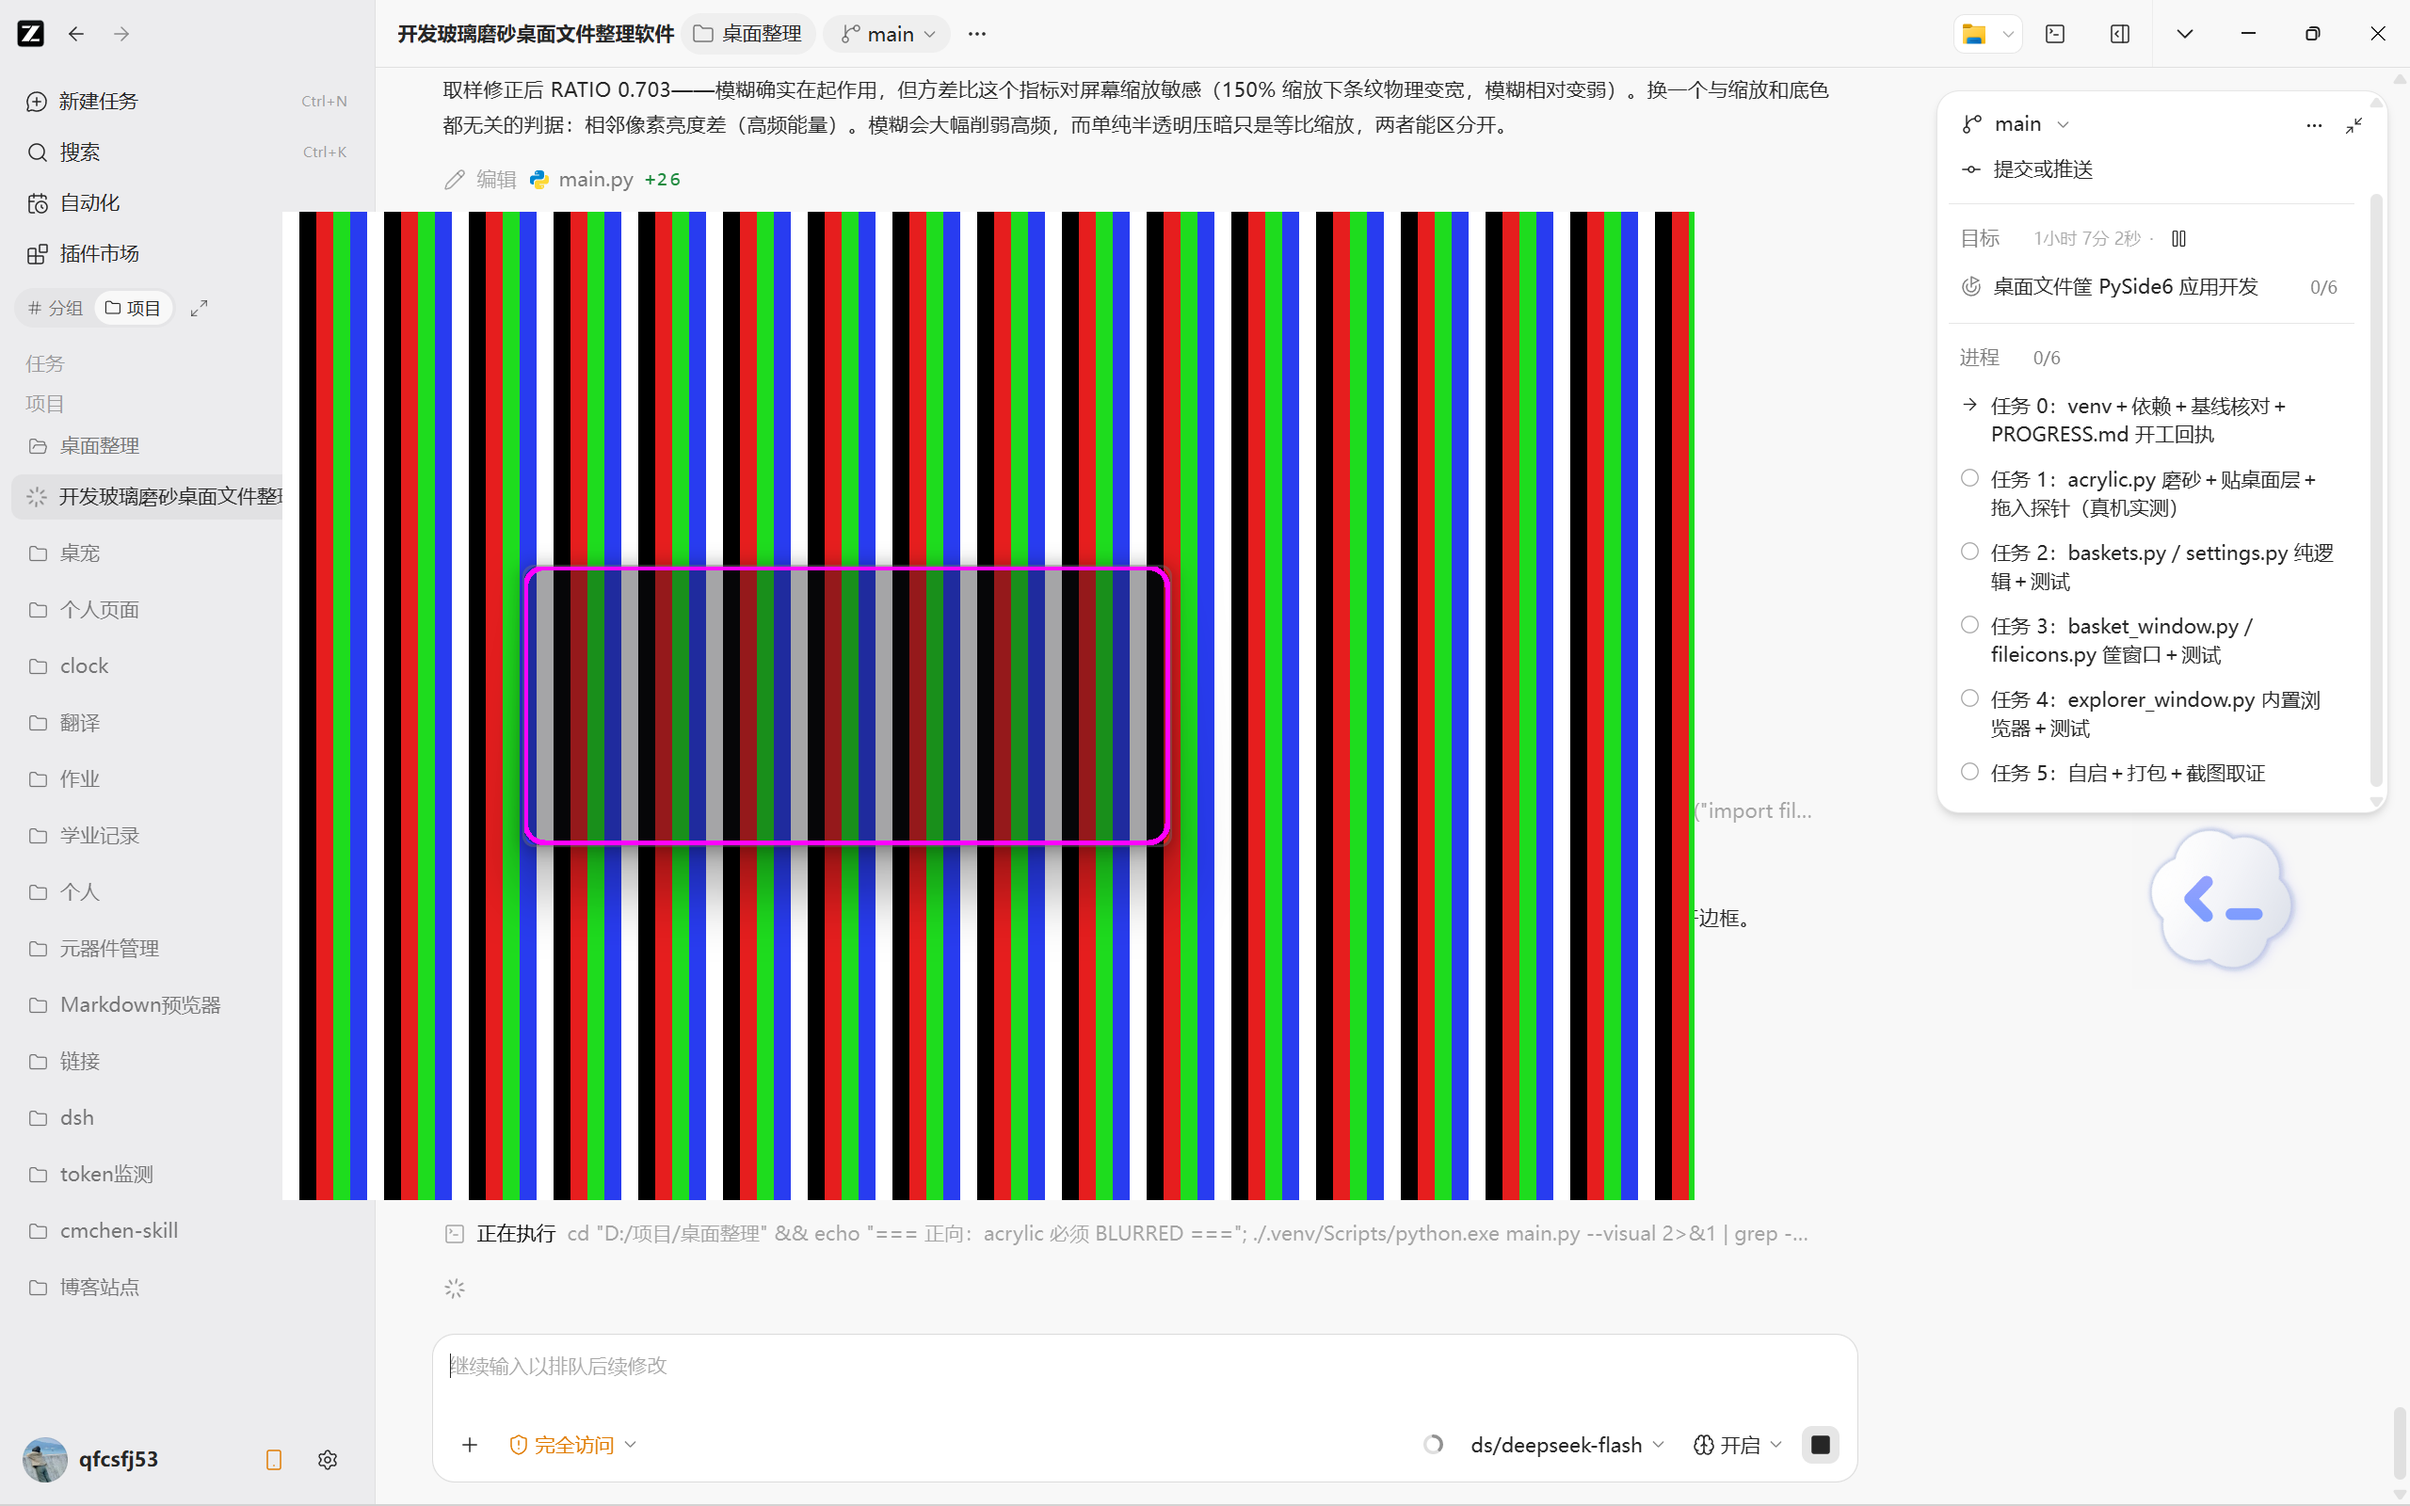
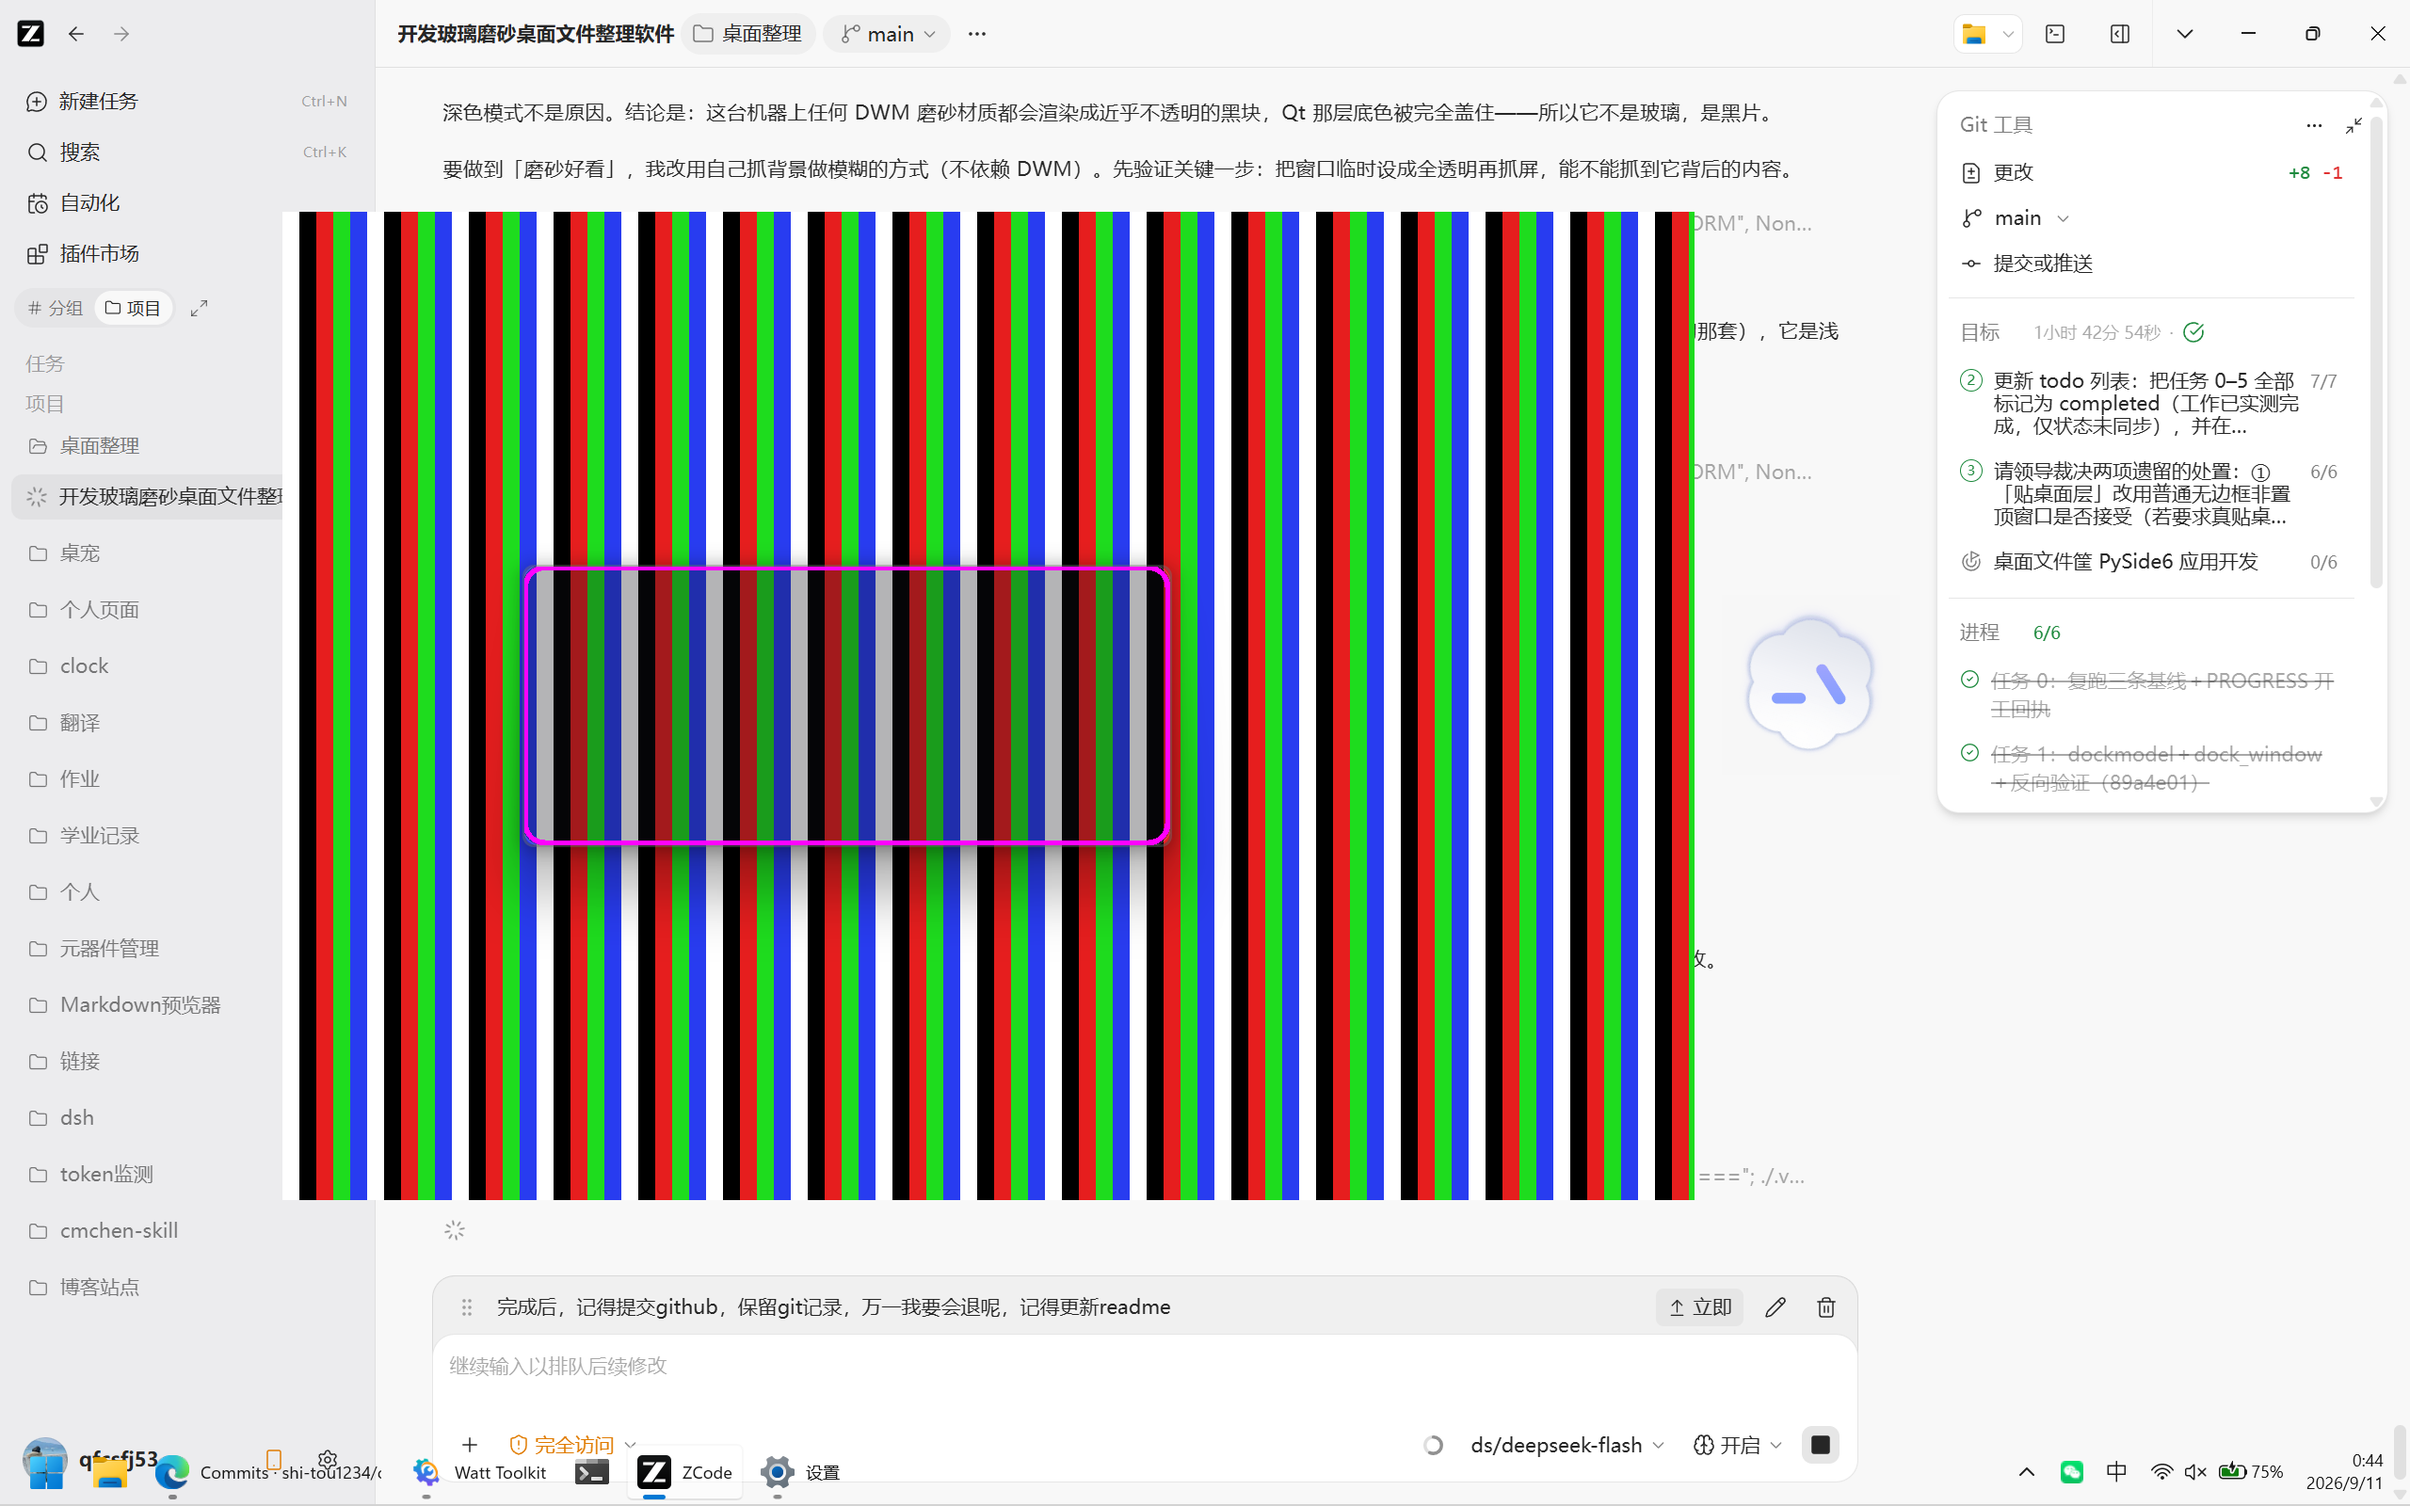
外观返工：磨砂改用 Win11 系统材质（老 API 会渲染成不透明黑块）
实测（面板空白区亮度，浅色背景下）：
- 老 API ACRYLICBLURBEHIND：17.3/255，且面板底色 alpha 0x00 与 0x60 结果完全相同
  → 说明老 API 生效时 Qt 画的底色参与不到合成里，呈现的是一块黑片而不是玻璃
- BLURBEHIND：同样 17.3/255
- Win11 系统材质（DwmExtendFrameIntoClientArea + 系统背景材质）：63.7/255，
  深色烟熏玻璃，背后内容可见且被糊开

处置：acrylic 模式优先走系统材质，失败回退老 API，再回退纯半透明底色。
默认值与配置格式不变，已有断言与旧配置都不受影响。

顺带修掉两个真 bug：
- frosted_window 用了 QPen 但未导入 → paintEvent 每次重绘都抛异常，而 Qt 只打日志
  不让测试失败，252 条全绿也没拦住；已把「改外观必须真机截图核对」写进 README
- 补上 acrylic 系统材质的契约测试（测试 247 → 252）

新增 --visual 的 system 模式验收：RATIO 0.000 BLURRED，反向验证 --accent=off
RATIO 0.687 ≈ 透光率 0.69

diff --git a/acrylic.py b/acrylic.py
@@ -20,6 +20,7 @@ ACCENT_ENABLE_ACRYLICBLURBEHIND = 4
 
 MODE_ACRYLIC = "acrylic"
 MODE_BLUR = "blur"
+MODE_SYSTEM = "system"
 MODE_OFF = "off"
 ACCENT_STATES = {
     MODE_ACRYLIC: ACCENT_ENABLE_ACRYLICBLURBEHIND,
@@ -174,8 +175,14 @@ def apply_system_backdrop(hwnd, kind=DWMSBT_TRANSIENTWINDOW):
 def apply_frosted(hwnd, mode=MODE_ACRYLIC, tint=DEFAULT_TINT, rounded=True):
     """一站式上效果。返回实际生效的模式字符串，供日志与自检断言。
 
-    返回值："acrylic" / "blur" / "off"（off＝明确要求不上磨砂）/
-    "none"（系统不支持，调用方应自行用半透明底色兜底，不要因为没磨砂就崩）。
+    返回："system"（Win11 系统材质）/ "acrylic" / "blur" / "off" / "none"。
+
+    重要实测（2026-09-11）：老的 ACCENT_ENABLE_ACRYLICBLURBEHIND 在这台机器上
+    （Win11 build 26200）会渲染成近乎不透明的黑块——浅色背景上量到的空白区亮度
+    只有 17/255，而且 Qt 自己画的底色完全被盖住（alpha 0x00 与 0x60 结果一模一样）。
+    同场景下改用 Win11 系统材质（DwmExtendFrameIntoClientArea + 系统背景材质）
+    得到的是 63.7/255 的深色烟熏玻璃，背后内容可见且被糊开——所以 acrylic 模式
+    优先走系统材质，失败才回退老 API，再失败回退纯模糊，最后才认输返回 "none"。
     """
     if not _valid(hwnd):
         return MODE_OFF
@@ -184,6 +191,10 @@ def apply_frosted(hwnd, mode=MODE_ACRYLIC, tint=DEFAULT_TINT, rounded=True):
         apply_rounded_corners(hwnd, True)
     if mode == MODE_OFF:
         return MODE_OFF
+
+    if mode != MODE_BLUR and apply_system_acrylic(hwnd, dark=True):
+        return MODE_SYSTEM
+
     want = MODE_BLUR if mode == MODE_BLUR else MODE_ACRYLIC
     if apply_accent(hwnd, want, tint):
         return want
@@ -195,6 +206,53 @@ def apply_frosted(hwnd, mode=MODE_ACRYLIC, tint=DEFAULT_TINT, rounded=True):
 def accent_state_value(mode):
     """模式名到 AccentState 数值；未知模式按 acrylic 处理。"""
     return ACCENT_STATES.get(mode, ACCENT_ENABLE_ACRYLICBLURBEHIND)
+
+
+class MARGINS(ctypes.Structure):
+    _fields_ = [
+        ("cxLeftWidth", ctypes.c_int),
+        ("cxRightWidth", ctypes.c_int),
+        ("cyTopHeight", ctypes.c_int),
+        ("cyBottomHeight", ctypes.c_int),
+    ]
+
+
+def extend_frame_into_client(hwnd, all_sides=True):
+    """把 DWM 边框扩展到整个客户区（"整片玻璃"）。
+
+    这是 Win11 系统级背景材质（Mica/Acrylic）生效的前提：客户区扩展之后，
+    应用没画东西的地方会交给 DWM 合成，系统材质才透得出来。
+    实测：不走这一步、只调 ACCENT_ENABLE_ACRYLICBLURBEHIND，在这台机器上
+    会渲染成近乎不透明的黑块（空白区亮度 17/255，对浅色背景也一律是黑）。
+    """
+    if not _valid(hwnd):
+        return False
+    dwmapi = _dwmapi()
+    if dwmapi is None:
+        return False
+    margins = MARGINS(-1 if all_sides else 0, -1 if all_sides else 0,
+                      -1 if all_sides else 0, -1 if all_sides else 0)
+    try:
+        result = dwmapi.DwmExtendFrameIntoClientArea(
+            ctypes.c_void_p(hwnd), ctypes.byref(margins)
+        )
+    except (AttributeError, OSError):
+        return False
+    return result == 0
+
+
+def apply_system_acrylic(hwnd, dark=False):
+    """Win11 系统 Acrylic：扩展边框 + 系统背景材质。返回是否成功。
+
+    与 ACCENT_ENABLE_ACRYLICBLURBEHIND 的区别：这套是 Win11 官方材质，
+    跟随系统明暗主题、透光而不发黑；老 API 已被微软弃用。
+    """
+    if not _valid(hwnd):
+        return False
+    _set_dwm_attr(hwnd, DWMWA_USE_IMMERSIVE_DARK_MODE, 1 if dark else 0)
+    if not extend_frame_into_client(hwnd):
+        return False
+    return apply_system_backdrop(hwnd, DWMSBT_TRANSIENTWINDOW)
 
 
 def describe_platform():

diff --git a/tests/test_acrylic.py b/tests/test_acrylic.py
@@ -61,3 +61,33 @@ def test_describe_platform_non_empty():
 def test_default_tint_has_nonzero_alpha():
     """Acrylic 需要 tint 的 alpha 非 0，否则部分系统上完全不显示磨砂。"""
     assert (acrylic.DEFAULT_TINT >> 24) & 0xFF != 0
+
+
+# ------------------------------------------------ Win11 系统材质（当前默认路径）
+
+
+def test_system_mode_constant_exists():
+    assert acrylic.MODE_SYSTEM == "system"
+
+
+def test_extend_frame_rejects_invalid_handle():
+    assert acrylic.extend_frame_into_client(0) is False
+    assert acrylic.extend_frame_into_client(None) is False
+    assert acrylic.extend_frame_into_client("123") is False
+
+
+def test_apply_system_acrylic_rejects_invalid_handle():
+    assert acrylic.apply_system_acrylic(0) is False
+    assert acrylic.apply_system_acrylic(None) is False
+
+
+def test_apply_frosted_off_mode_returns_off():
+    """off 是反向验证用的对照模式，绝不能悄悄走成磨砂。"""
+    assert acrylic.apply_frosted(0, mode=acrylic.MODE_OFF) == acrylic.MODE_OFF
+
+
+def test_frosted_failure_sentinel_is_not_a_valid_mode():
+    """系统不支持时要返回 "none" 这个明确的失败哨兵，调用方据此走半透明兜底。"""
+    source = acrylic.apply_frosted.__doc__ or ""
+    assert "none" in source
+    assert "system" in source

diff --git a/settings.py b/settings.py
@@ -17,8 +17,8 @@ APP_DIR_NAME = "DeskBasket"
 
 ACCENT_MODES = ("acrylic", "blur")
 ACCENT_LABELS = {
-    "acrylic": "磨砂玻璃（Acrylic）",
-    "blur": "轻量模糊（Blur，拖动更跟手）",
+    "acrylic": "磨砂玻璃 · 深色（推荐，Win11 系统材质）",
+    "blur": "轻量模糊 · 老 API（部分系统上会偏暗）",
 }
 
 ICON_SIZE_MIN, ICON_SIZE_MAX = 24, 128

diff --git a/PROGRESS.md b/PROGRESS.md
@@ -210,3 +210,26 @@ DESKTOP_UNCHANGED_OK
 4. **真实端到端验证 Dock（不是脚本内自证）**：启动真程序 → 日志零错误零警告 → 鼠标在底边时 `DeskBasket Dock` 窗口矩形 `(85, 981, 1621, 1063)`（滑出）→ 鼠标移开 3 秒后 `(85, 1067, 1621, 1149)`（完全收起，y = 屏底）。另用外部通道（computer-use 截屏）独立确认 Dock 就在屏幕底部、**只有图标没有背景条**。
 
 **过程中查清的一个"假 bug"**：脚本里一度看到 `tick()` 返回 `show` 但窗口 y 仍停在收起位置，一度以为是滑出动画坏了。查下来是**脚本自己没跑事件循环**——`QPropertyAnimation` 需要事件循环推进，脚本里 `wait_ms` 那一步之前就取了几何位置。加上事件循环后 300ms 内到位（1067 → 1022 → 981）。产品代码没问题，但这说明「验证脚本本身的时序」也得当成嫌疑对象。
+
+## 外观返工：磨砂从「黑块」改成「Win11 系统材质」（领导要求「磨砂感觉美观」）
+
+**问题**：领导反馈磨砂不够美观。按惯例不该靠眼睛估，于是采样面板**空白区**的亮度（先踩了一次坑：取样区压在图标上，三个变体量出完全相同的数字，白折腾一轮）。换到真正的空白区后，数据非常清楚：
+
+| 配置 | 空白区亮度（浅色背景下） |
+|---|---|
+| 老 API `ACRYLICBLURBEHIND`，面板底色 alpha 0x60 | 17.3 / 255 |
+| 同上，面板底色 alpha **0x00** | 17.3 / 255（**与上一行一模一样**） |
+| `BLURBEHIND` | 17.3 / 255 |
+| 关掉材质，只留半透明底色 | 156 ~ 192 / 255 |
+| **Win11 系统材质**（`DwmExtendFrameIntoClientArea` ＋ 系统背景材质） | **63.7 / 255** |
+
+「alpha 0x00 与 0x60 结果完全相同」这条最能说明问题：老 API 一旦生效，Qt 自己画的底色**根本参与不到合成里**，所以它呈现的是系统给的一块近乎不透明的黑片，不是玻璃。也顺带说明我第一轮那条「磨砂判定 BLURRED」的结论是**不充分**的——它只证明了面板内高频被削平（均匀），而没有区分「被模糊」和「被一块不透明物盖住」。这轮补上了亮度维度才看出来。
+
+**处置**：`acrylic.apply_frosted` 的 `acrylic` 模式改为**优先走 Win11 系统材质**（`dark=True`，深色烟熏玻璃），失败回退老 API，再失败回退纯半透明底色。默认值与配置格式都没动，所以已有测试断言、旧配置全都不用改。
+
+**验收**：`main.py --visual` → `VISUAL_ACCENT system` / `RATIO 0.000` / `BLURRED`；反向验证 `--accent=off` → `RATIO 0.687`，几乎正好等于面板透光率 0.69 —— 高频维度与亮度维度现在都成立。真机三物同框截图重拍，面板已是能透出背后内容、且内容被糊开的烟熏玻璃。
+
+## 又抓到两个真 bug
+
+1. **`QPen` 未导入**：新加的玻璃边缘高光用到了 `QPen`，但 `frosted_window.py` 没导入 → `paintEvent` **每次重绘都抛异常**。Qt 只在控制台打日志、不影响 `pytest` 通过，所以 252 条测试全绿也没拦住它。已修，并把「别只看测试绿、改外观必须真机截图核对」写进 README 的开发约定。
+2. **上一节记录的取样区错误**：三个变体量出相同数字，正是因为取样区压在图标上——同一类错误这轮犯了两次（第一轮也是），已在 PROGRESS 里记下，取样一律先确认区域是空的。
